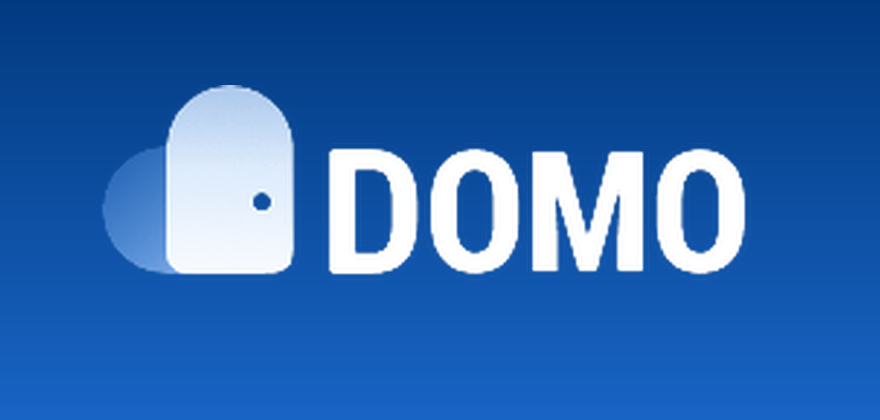
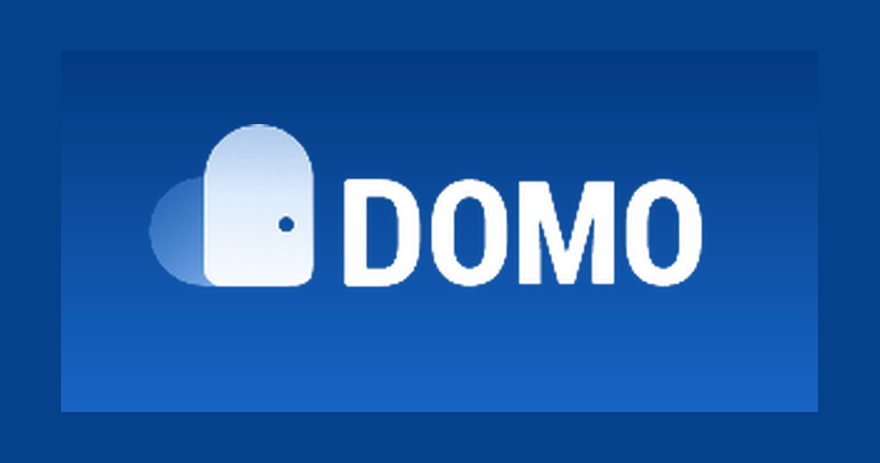
Stop the wide lockups being cropped in half
Zarina Yuldasheva's card read "IT PA... UZBEKIS..." because IT Park's lockup is
383x129 — proportionally three times wider than the banner — and cover crops
whatever overflows. Measuring every banner in use showed the same fault on
four more: Yoshlar Ventures kept 54 percent of its width, IT Park 63, El-Yurt
Umidi and Fintellect 80. AloqaVentures escaped only because that one card had
been set to contain by hand.

Each of those is now composed onto a band of its own ground — read from the
artwork's own border, so a white logo keeps its white and a navy one its navy —
at exactly the banner's proportion, with the mark inset far enough that nothing
reaches an edge. The per-card contain flag goes away; the files carry the right
shape themselves now.

The two banners built earlier in this session were losing a sliver of padding
the same way and get the same treatment, so every banner is now 1.90 and no
card crops its logo.

Changed region(s): [[0.092, 0.1857, 0.8591, 0.681], [0.0, 0.4952, 1.0, 1.0]]

diff --git a/src/components/figma/ProfileCard.tsx b/src/components/figma/ProfileCard.tsx
@@ -3,8 +3,8 @@ import type { Profile } from "./profiles";
 
 // ── Brand banner images ──────────────────────────────────────────────────────
 const imgMarkaziyBank = "/figma-make/image-10.png";
-const imgYoshlarVentures = "/figma-make/image-12.png";
-const imgITPark = "/figma-make/image-14.png";
+const imgYoshlarVentures = "/figma-make/image-12-fit.png";
+const imgITPark = "/figma-make/image-14-fit.png";
 const imgStartupGarage = "/figma-make/image-15.png";
 const imgUnitedVentures = "/figma-make/image-16.png";
 const imgICTWeek = "/figma-make/image-17.png";
@@ -15,10 +15,10 @@ const imgUzCombinator = "/figma-make/uzcombinator-banner.jpeg";  // supplied by 
 const imgMOQ = "/figma-make/moq-banner.jpeg";                    // supplied by the client
 const imgKorzinka   = "/figma-make/korzinka-banner.png";
 const imgMU         = "/figma-make/mu-banner.png";
-const imgFintellect = "/figma-make/fintellect-banner.jpeg";
+const imgFintellect = "/figma-make/fintellect-banner-fit.png";
 const imgAyol       = "/figma-make/ayol-banner.jpeg";
-const imgEYU        = "/figma-make/eyu-banner.jpeg";
-const imgAloqaV     = "/figma-make/aloqaventures-banner.jpeg";  // the fund's own, supplied
+const imgEYU        = "/figma-make/eyu-banner-fit.png";
+const imgAloqaV     = "/figma-make/aloqaventures-banner-fit.png";  // the fund's own, supplied
 const imgFlex       = "/figma-make/flex-banner.png";
 const imgDomo       = "/figma-make/domo-banner.png";
 

diff --git a/src/components/figma/profiles.ts b/src/components/figma/profiles.ts
@@ -754,7 +754,6 @@ export const profiles: Profile[] = [
     organization: "AloqaVentures",
     orgShort: "AloqaVentures",
     website: "www.aloqaventures.uz",
-    bannerFit: "contain",
     bannerPosition: "center 22%",
     coverColor: "#002066",
     coverAccent: "#7cc8fb",
@@ -777,7 +776,6 @@ export const profiles: Profile[] = [
     organization: "AloqaVentures",
     orgShort: "AloqaVentures",
     website: "www.aloqaventures.uz",
-    bannerFit: "contain",
     bannerPosition: "center 22%",
     coverColor: "#002066",
     coverAccent: "#7cc8fb",
